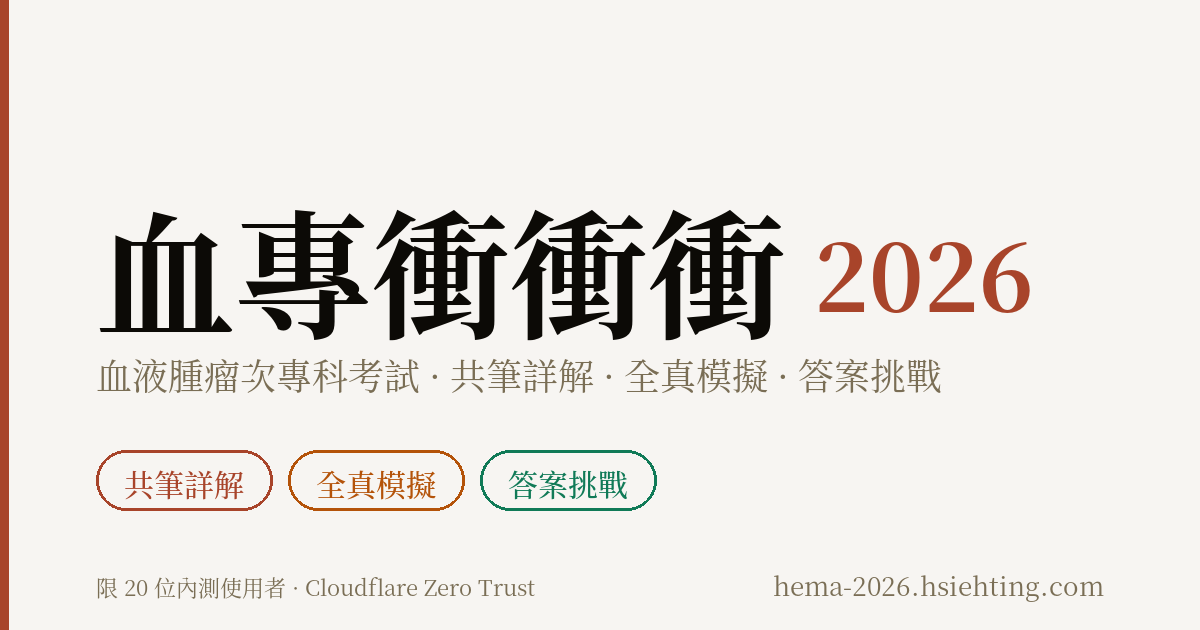
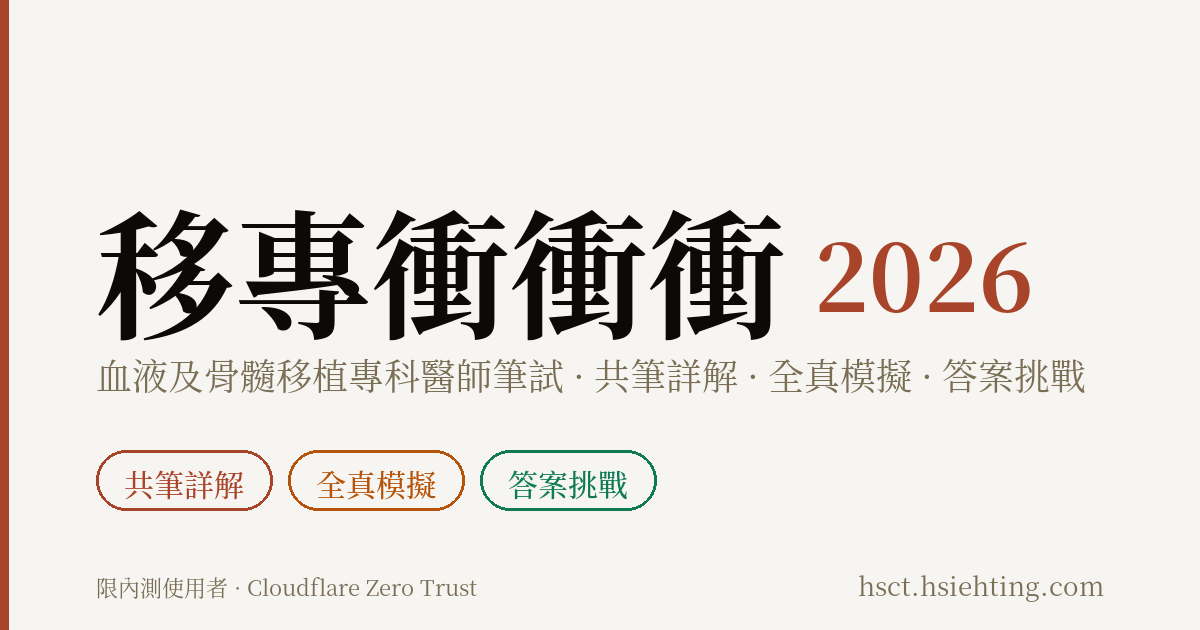
chore: regenerate OG image from config; 血專 → 移專 in docs
Claude-Session: https://claude.ai/code/session_01CG1guMapA2jeN2kktg8Rm6

diff --git a/docs/manual.html b/docs/manual.html
@@ -2,7 +2,7 @@
 <html lang="zh-Hant-TW">
 <head>
 <meta charset="utf-8" />
-<title>血專衝衝衝 · 使用手冊</title>
+<title>移專衝衝衝 · 使用手冊</title>
 <link rel="preconnect" href="https://fonts.googleapis.com" />
 <link rel="preconnect" href="https://fonts.gstatic.com" crossorigin />
 <link href="https://fonts.googleapis.com/css2?family=Noto+Serif+TC:wght@400;500;600;700&family=Noto+Sans+TC:wght@300;400;500;600&family=JetBrains+Mono:wght@400;500&display=swap" rel="stylesheet" />
@@ -63,7 +63,7 @@ h2,h3,h4{page-break-after:avoid;}
 h1.chapter:first-of-type{page-break-before:auto;}
 </style></head><body><div class="page">
 
-<section class="cover-page"><div class="kicker">使用手冊 · USER MANUAL</div><h1 class="cover">血專衝衝衝</h1><p class="subtitle">2026 台灣血液腫瘤次專科考試 · 共筆詳解 · 全真模擬</p><p style="font-family:'Noto Serif TC',serif;font-size:11pt;line-height:1.85;color:var(--ink-700);max-width:540px;">本手冊帶你從第一次登入到上場考試前的最後一輪複習，逐章說明系統的所有功能。讀完後，你會知道如何在共筆詳解上協作、用全真作答模擬考場、追蹤錯題、與夥伴針對答案討論甚至發起挑戰。</p><dl class="cover-meta"><dt>適用對象</dt><dd>20 位內部研究院/學會成員</dd><dt>系統範圍</dt><dd>1000 題 · 民國 104–113 年 + 模擬卷</dd><dt>登入方式</dt><dd>Cloudflare Access OTP (email 一次性密碼)</dd><dt>裝置支援</dt><dd>桌機、平板、手機 (RWD)</dd><dt>最佳列印</dt><dd>A4 · 雙面 · 黑白可</dd></dl></section>
+<section class="cover-page"><div class="kicker">使用手冊 · USER MANUAL</div><h1 class="cover">移專衝衝衝</h1><p class="subtitle">2026 台灣血液及骨髓移植專科醫師筆試 · 共筆詳解 · 全真模擬</p><p style="font-family:'Noto Serif TC',serif;font-size:11pt;line-height:1.85;color:var(--ink-700);max-width:540px;">本手冊帶你從第一次登入到上場考試前的最後一輪複習，逐章說明系統的所有功能。讀完後，你會知道如何在共筆詳解上協作、用全真作答模擬考場、追蹤錯題、與夥伴針對答案討論甚至發起挑戰。</p><dl class="cover-meta"><dt>適用對象</dt><dd>20 位內部研究院/學會成員</dd><dt>系統範圍</dt><dd>1000 題 · 民國 104–113 年 + 模擬卷</dd><dt>登入方式</dt><dd>Cloudflare Access OTP (email 一次性密碼)</dd><dt>裝置支援</dt><dd>桌機、平板、手機 (RWD)</dd><dt>最佳列印</dt><dd>A4 · 雙面 · 黑白可</dd></dl></section>
 
 <section class="toc"><h2>目錄</h2><ol><li>第一章 · 第一次登入</li><li>第二章 · 介面總覽</li><li>第三章 · 首頁導讀</li><li>第四章 · 複習模式<div class="sub">答題 · 共筆詳解 · 個人筆記 · 留言與 @提及 · 收藏 · 相似題 · AI 摘要與翻譯 · 答案挑戰</div></li><li>第五章 · 全真作答</li><li>第六章 · 錯題回顧與作答紀錄</li><li>第七章 · 搜尋、收藏與快速跳轉</li><li>第八章 · 個人資料與通知</li><li>附錄 A · 鍵盤捷徑速查</li><li>附錄 B · 常見問題 FAQ</li><li>附錄 C · 回報問題與聯絡</li></ol></section>
 
@@ -83,10 +83,10 @@ h1.chapter:first-of-type{page-break-before:auto;}
 <p class="lead">系統有一個跨頁固定的頂欄、桌機/手機切換的導航，以及右上角一排狀態工具。把這幾個區塊看熟，後面所有章節都會更直觀。</p>
 <h2>2.1 頂欄結構</h2>
 <div class="screen"><div class="bar">桌機檢視 · 頂欄</div><pre>┌──────────────────────────────────────────────────────────────────────┐
-│ 血專衝衝衝   首頁  複習  全真  搜尋  收藏  錯題     [線上][🌗][💬][🔔][👤 名字] │
+│ 移專衝衝衝   首頁  複習  全真  搜尋  收藏  錯題     [線上][🌗][💬][🔔][👤 名字] │
 └──────────────────────────────────────────────────────────────────────┘</pre></div>
 <table><thead><tr><th>區塊</th><th>說明</th></tr></thead><tbody>
-<tr><td><strong>血專衝衝衝</strong></td><td>系統 LOGO，點擊任何時候都可以回首頁。</td></tr>
+<tr><td><strong>移專衝衝衝</strong></td><td>系統 LOGO，點擊任何時候都可以回首頁。</td></tr>
 <tr><td>首頁 / 複習 / 全真 / 搜尋 / 收藏 / 錯題</td><td>主導航。目前所在的頁面會以橘色字體顯示。</td></tr>
 <tr><td>線上 (人頭數字)</td><td>顯示目前同時在線的成員，hover 看 avatar 列表。</td></tr>
 <tr><td>🌗 主題切換</td><td>淺色 ⇄ 深色模式。系統會記住偏好。</td></tr>
@@ -342,6 +342,6 @@ h1.chapter:first-of-type{page-break-before:auto;}
 <p>本系統為內部協作工具，部分文件 (架構、部署、資料庫 schema) 放在專案的 <code>README.md</code> 與 <code>CLAUDE.md</code>。需要技術細節時可向管理員索取 repo 權限。</p>
 
 <hr style="margin:60px 0 24px;border:none;border-top:1px solid var(--rule);" />
-<p style="text-align:center;color:var(--ink-500);font-size:9pt;">血專衝衝衝 · 使用手冊 · v1.0<br/>Last updated: 2026-05-25 · 適用對象: 內部 20 位成員<br/>若紙本印出後內容有疑問，以線上即時版本為準。</p>
+<p style="text-align:center;color:var(--ink-500);font-size:9pt;">移專衝衝衝 · 使用手冊 · v1.0<br/>Last updated: 2026-05-25 · 適用對象: 內部 20 位成員<br/>若紙本印出後內容有疑問，以線上即時版本為準。</p>
 
 </div></body></html>

diff --git a/docs/plans/2026-07-20-in-app-export.md b/docs/plans/2026-07-20-in-app-export.md
@@ -14,7 +14,7 @@
 
 **既有的離線 apkg 流程 —— `scripts/build-anki.py`(750 行)**
 
-- 用 `wrangler d1 execute --json` 逐年撈題(`scripts/build-anki.py:539-572`,`questions LEFT JOIN explanations`)。**沒有 personal_notes、沒有 highlights** —— 這正是「帶不走自己的筆記」的根因。入口是 `package.json` 的 `anki:build` / `anki:build:mine`,產物 `anki-deck/血專-1xx年.apkg`(最大 12.8 MB,gitignored),使用者無法自選範圍。
+- 用 `wrangler d1 execute --json` 逐年撈題(`scripts/build-anki.py:539-572`,`questions LEFT JOIN explanations`)。**沒有 personal_notes、沒有 highlights** —— 這正是「帶不走自己的筆記」的根因。入口是 `package.json` 的 `anki:build` / `anki:build:mine`,產物 `anki-deck/移專-1xx年.apkg`(最大 12.8 MB,gitignored),使用者無法自選範圍。
 - 卡片組法:Front = `.qid` + `.stem` + `<ul class="options">`;Back = `.answer` 正解 + `.expl` 詳解 HTML(`:648-668`)。**但這份不是樣式基準 —— 見下。**
 
 **樣式基準:`~/mcq-to-anki`(github.com/htlin222/mcq-to-anki)**
@@ -272,8 +272,8 @@ curl -OJ -X POST http://localhost:8787/api/export -H "$E" -H "$J" \
 ```
 #separator:Comma
 #html:true
-#notetype:血專
-#deck:血專::匯出
+#notetype:移專
+#deck:移專::匯出
 #columns:Front,Back,Tags
 #tags column:3
 ```
@@ -354,7 +354,7 @@ download: async (path: string, body: any): Promise<void> => {
 - [ ] `pnpm exec tsc --noEmit` 與 `cd frontend && pnpm build` 皆過
 - [ ] 五個入口(收藏資料夾 / 錯題 / 某一年 / 搜尋結果 / 測驗結果)都能匯出,範圍標籤與檔名正確
 - [ ] Markdown 檔在 Obsidian / VS Code / GitHub 三處預覽正常,中文檔名不亂碼
-- [ ] CSV 實際匯入 Anki:notetype `血專`、deck、tags 正確,HTML 有渲染
+- [ ] CSV 實際匯入 Anki:notetype `移專`、deck、tags 正確,HTML 有渲染
 - [ ] **A 帳號無法匯出 B 帳號的收藏 / 筆記 / 畫記**(Task 4.2 Step 3 已實測)
 - [ ] 匯出檔中不出現他人 email 或他人筆記內容;201 題的範圍回 413 且 UI 有可讀提示,不是白畫面
 - [ ] `wrangler tail` 觀察一次 200 題匯出,CPU time 未超標;R2 bucket 仍為私有(dashboard 確認未開公開存取)
